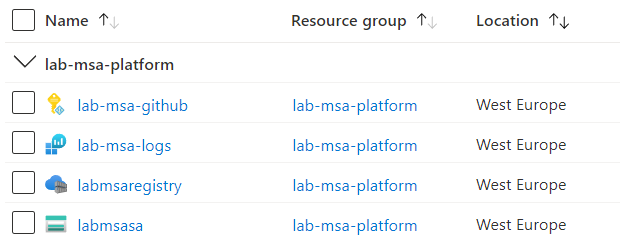
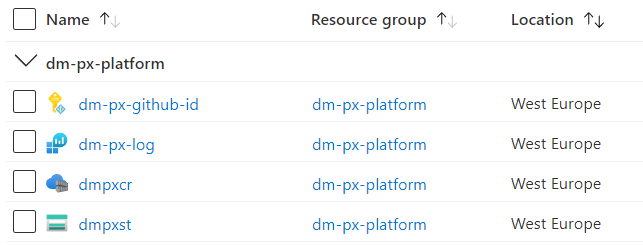
docs update

diff --git a/README.md b/README.md
@@ -327,10 +327,10 @@ To add a new service you can either copy one of the built-in service templates i
 
 If you want to delete all resources that have been created by this project, you must perform the following *manual* steps:
 
-* Delete the subscription role assignments for the GitHub identity (e.g. `lab-msa-github-id`)
-* Delete all Azure resource groups with the tag `product: (config.platformAbbreviation)` (e.g. `product: lab-msa`)
+* Delete the subscription role assignments for the GitHub identity (e.g. `dm-px-github-id`)
+* Delete all Azure resource groups with the tag `product: (config.platformAbbreviation)` (e.g. `product: dm-px`)
   * You should delete all service-groups first, environment-groups second, and platform-groups last.
-* Delete Azure AD groups that start with `(config.platformAbbreviation)-` (e.g. `lab-msa-dev-sql-admins`)
+* Delete Azure AD groups that start with `(config.platformAbbreviation)-` (e.g. `dm-px-dev-sql-admins`)
 * Delete all secrets from your GitHub repository
 * Delete all environments from your GitHub repository
 * Delete any GitHub Actions workflow runs
